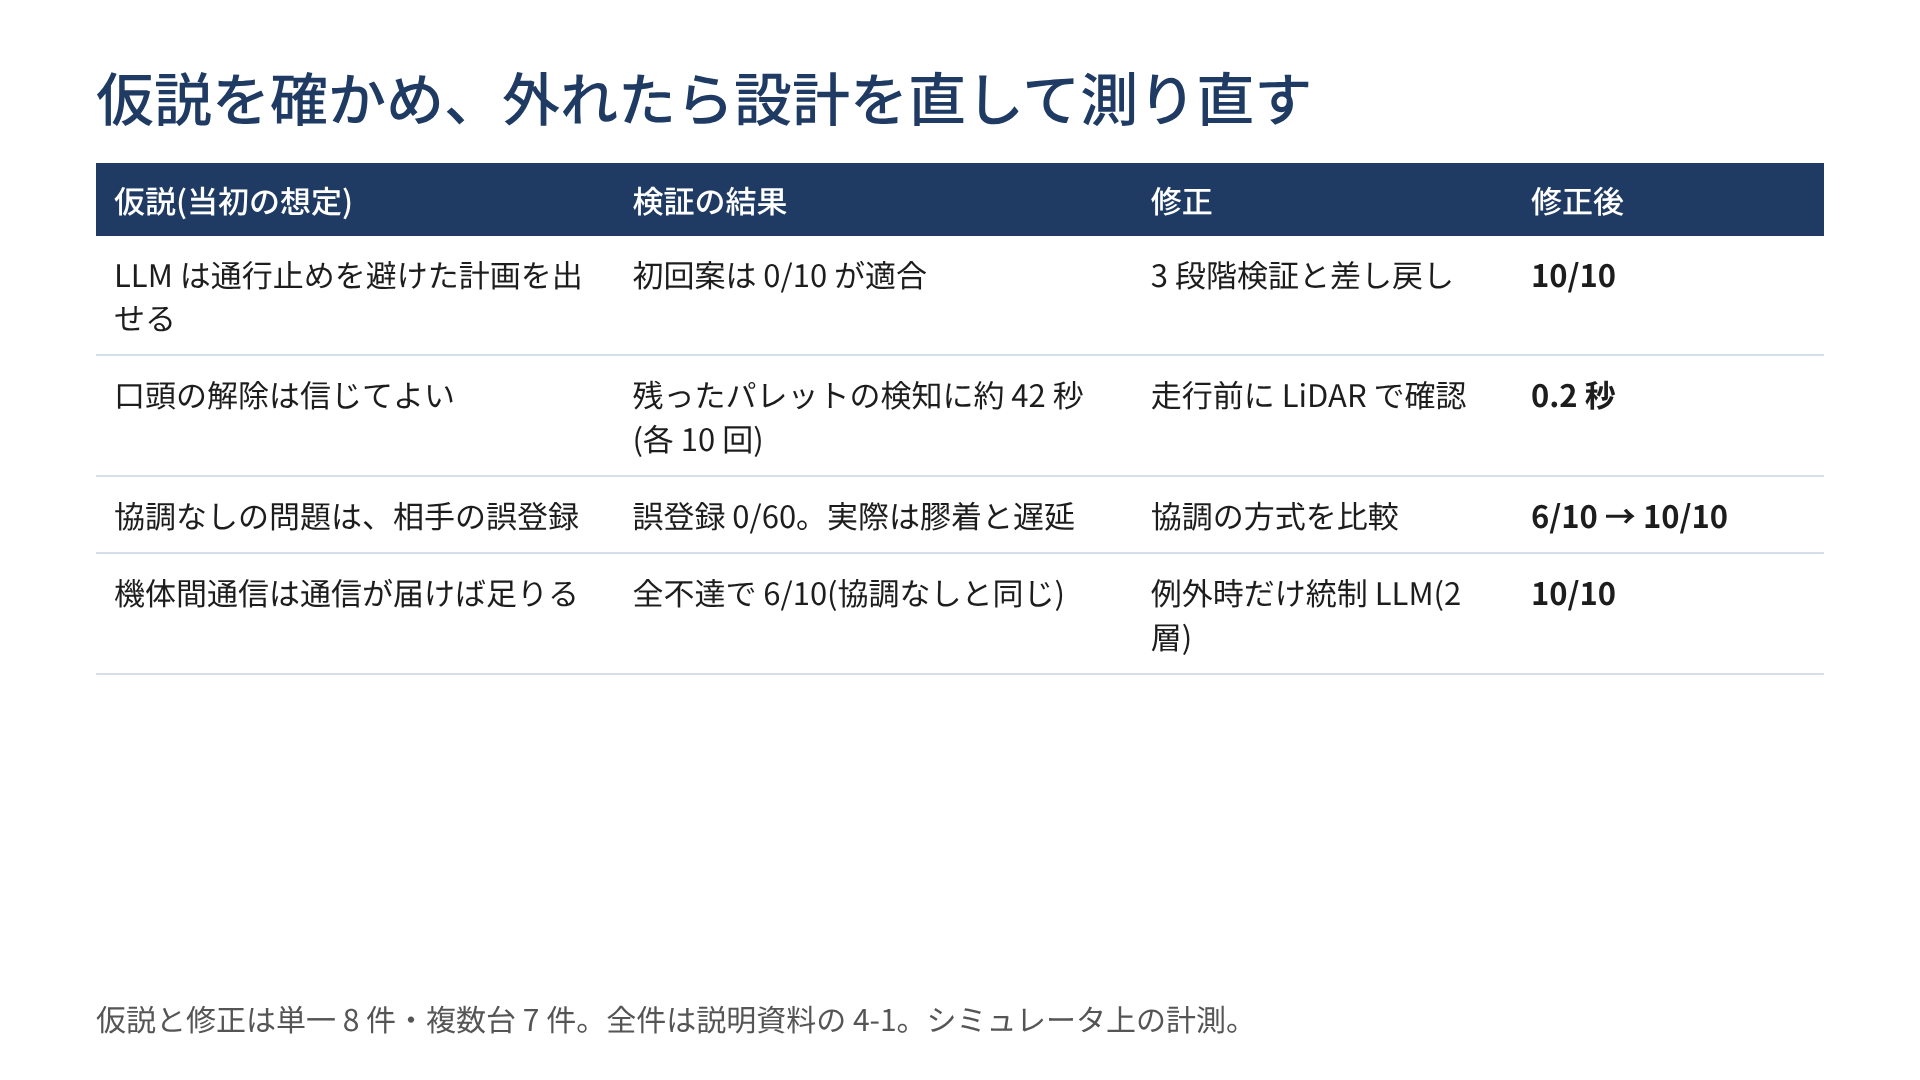
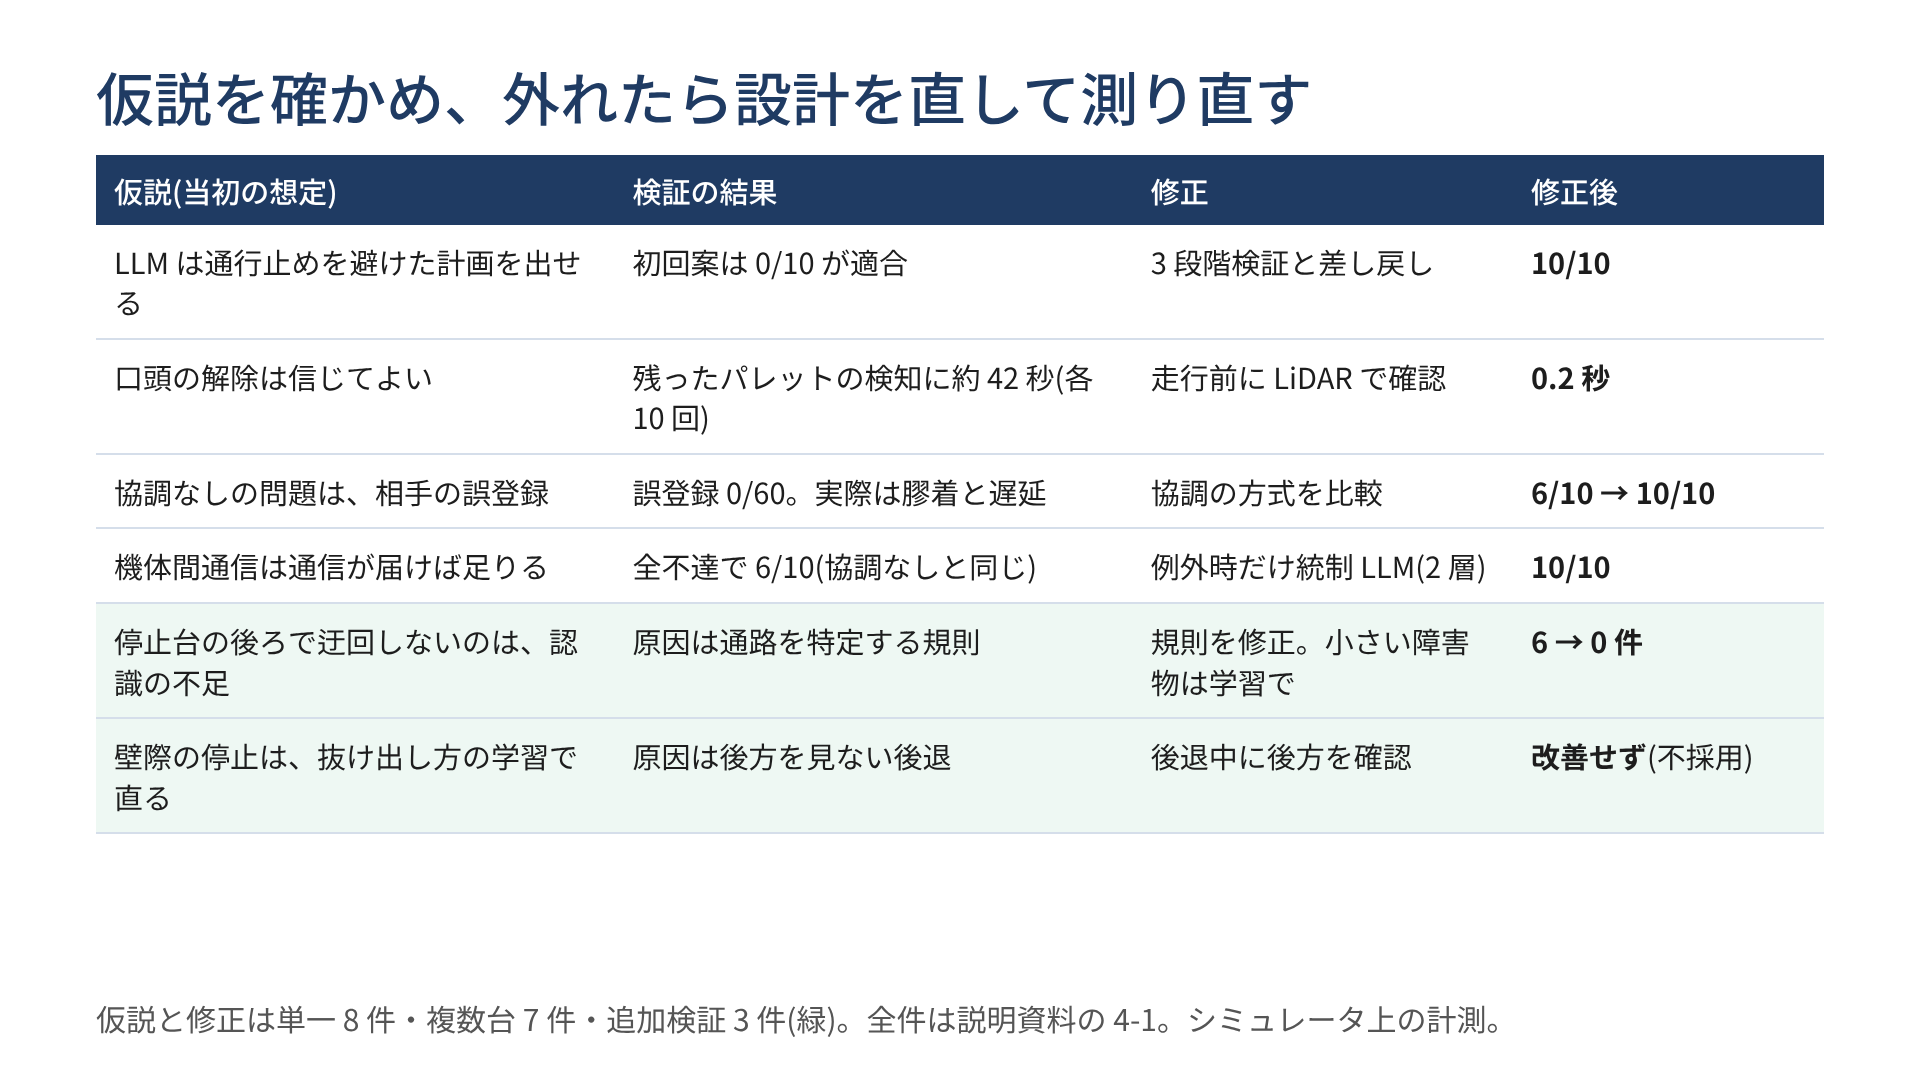
Video part 3: new slides 11-14, updated 01/01b/01c/09/10, telops T8a/T8b, scene 8 procedure, video_reset robotbox
Claude-Session: https://claude.ai/code/session_01XXRvrW4CqHyFHBMq6pLjo3

diff --git a/docs/動画収録手順.md b/docs/動画収録手順.md
@@ -1,6 +1,6 @@
 # 動画の収録手順(場面ごとの操作と、実行するコマンド)
 
-構成は Project の `claude/動画構成案.md`(目安 2:52)。録画は Mac の画面収録(手動)で行う。
+構成は Project の `claude/動画構成案.md` と `claude/動画差し替え案.md`(パート 3 を追加した版、目安 2:58)。録画は Mac の画面収録(手動)で行う。
 **ロボットの操作の扱い:** 場面 2〜6 は、人の入力(指示の文、指差し、ジェスチャー)そのものを見せる場面なので手動で行う。場面 4 のパレット配置と、テイク間のリセットはスクリプトで自動化した。場面 7(2 台)は自動実行の様子を録画する。
 
 ## 0. 端末の用意(録画の前に 1 回)
@@ -244,31 +244,62 @@ bash ~/ros2_ws/run_nav.sh cargo:=true
 
 編集: C0 の膠着した回(テロップ T7a)→ C3 の回(テロップ T7b)を、どちらも 8 倍速で続ける。収録用の `docs/multi/C0_video.csv`・`C3_video.csv` は削除してよい。
 
+### 場面 8(2:23–2:37)残った停止ロボット:規則と学習の比較(パート 3)― 編集で 8 倍速、テロップ T8a → T8b
+走行の検証 P1(説明資料 7-4)と同じ場面。南通路の中心に停止ロボットを模した箱を置き、口頭で誤って「片付いた」と伝える。
+実行部は修正版(plan_executor_v2)で起動し、認識器(recognizer)をテイクごとに切り替える。場面 7 の後なら、先に複数台用のコンテナを止めて単一用を起動する(1-2)。
+
+**準備(1 回):**
+| 順 | 場所 | 操作 |
+|---|---|---|
+| 1 | N1 | `Ctrl+C` → `bash ~/ros2_ws/stop_nav.sh` → `bash ~/ros2_ws/run_nav.sh executor:=plan_executor_v2` |
+| 2 | T2 | `../docker/ros_exec.sh ros2 lifecycle get /bt_navigator`(`active [3]` を確認) |
+| 3 | N2 | `ign gazebo -g`、T2 で `./video_camera.sh top` |
+
+**テイク A(規則、テロップ T8a):**
+| 順 | 場所 | 操作 | 画面に出るもの |
+|---|---|---|---|
+| 1 | T2 | `../docker/ros_exec.sh ros2 param set /plan_executor recognizer rule_offset` | `Set parameter successful` |
+| 2 | T1・T2 | `Ctrl+C` → `./video_reset.sh robotbox` | 南通路の中心に橙の箱 |
+| 3 | T1 | `python llm_commander.py` → `南通路は塞がれている`(録画しなくてよい) | 南通路を通行止めに登録 |
+| 4 | 録画開始 | | |
+| 5 | T1 | `南通路は片付いた。出荷口へ行って` | 南通路へ走り出し、箱の約 0.9 m 手前で `blocked`(事前確認)→ 後退 → 中央通路を通って到着(約 57 秒) |
+| 6 | 録画終了 | | |
+
+**テイク B(学習、テロップ T8b):** 手順 1 を `recognizer learned` にして、2〜6 を同じく行う。
+画面に出るもの: 出発の直後(約 1 秒、入荷口付近)で `blocked`(事前確認)→ 南通路に入らず中央通路を通って到着(約 42 秒)。
+
+編集: テイク A(T8a)→ テイク B(T8b)を続け、どちらも 8 倍速。終わったら `../docker/ros_exec.sh ros2 param set /plan_executor recognizer rule` に戻すか、N1 で `run_nav.sh`(引数なし)から起動し直す。
+
 ## 4. 編集と書き出し(iMovie など)
 
 | 時間 | 場面 | 素材 |
 |---|---|---|
-| 0:00–0:07 | 題名と 2 つの問い | 画像 01 |
-| 0:07–0:13 | 進め方(仮説 → 検証 → 修正の例 4 件) | 画像 01b |
-| 0:13–0:18 | システム構成(単一ロボット) | 画像 01c |
-| 0:18–0:22 | パート 1 表紙(単一ロボット) | 画像 01d |
-| 0:22–0:32 | 通常搬送と到着予測 | 場面 2(8 倍速、テロップ T2) |
-| 0:32–0:51 | 荷物搬送(指差し + 言葉) | 場面 3 |
-| 0:51–1:19 | 迂回 | 画像 02(3 秒)→ 場面 4(8 倍速、テロップ T4) |
-| 1:19–1:33 | 口頭解除と LiDAR 確認 | 場面 5 → 画像 03 |
-| 1:33–1:39 | 非常停止 | 場面 6 |
-| 1:39–1:47 | 問い 1 の答え:効いた要素と機能の実績 | 画像 04 |
-| 1:47–1:51 | パート 2 表紙(複数ロボット) | 画像 04b |
-| 1:51–1:58 | 複数台の構成と協調の方式(C1・C3・C4) | 画像 06 |
-| 1:58–2:21 | 2 台の正面すれ違い | 場面 7(C0 テロップ T7a → C3 テロップ T7b、8 倍速) |
-| 2:21–2:29 | 複数台の結果 | 画像 07 |
-| 2:29–2:37 | 通信の中身と、届かない場合・2 層 | 画像 08 |
-| 2:37–2:46 | 単一で効いた規則が裏目に出た点 | 画像 09 |
-| 2:46–2:58 | まとめ(2 つの問いへの答え、3 台以上への方針) | 画像 10 |
+| 0:00–0:06 | 題名と 3 つの問い | 画像 01 |
+| 0:06–0:12 | 進め方(仮説 → 検証 → 修正の例 6 件) | 画像 01b |
+| 0:12–0:16 | システム構成(単一ロボット) | 画像 01c |
+| 0:16–0:19 | パート 1 表紙(単一ロボット) | 画像 01d |
+| 0:19–0:27 | 通常搬送と到着予測 | 場面 2(8 倍速、テロップ T2) |
+| 0:27–0:40 | 荷物搬送(指差し + 言葉) | 場面 3(19 → 13 秒に短縮) |
+| 0:40–1:02 | 迂回 | 画像 02(3 秒)→ 場面 4(28 → 19 秒に短縮) |
+| 1:02–1:14 | 口頭解除と LiDAR 確認 | 場面 5 → 画像 03 |
+| 1:14–1:19 | 非常停止 | 場面 6 |
+| 1:19–1:26 | 問い 1 の答え:効いた要素と機能の実績 | 画像 04 |
+| 1:26–1:29 | パート 2 表紙(複数ロボット) | 画像 04b |
+| 1:29–1:34 | 複数台の構成と協調の方式 | 画像 06 |
+| 1:34–1:51 | 2 台の正面すれ違い | 場面 7(23 → 17 秒に短縮。T7a → T7b) |
+| 1:51–1:57 | 複数台の結果 | 画像 07 |
+| 1:57–2:02 | 通信の中身と、届かない場合・2 層 | 画像 08 |
+| 2:02–2:09 | 単一で効いた規則が裏目(パート 3 への橋渡し) | 画像 09 |
+| 2:09–2:12 | パート 3 表紙(失敗からの改善) | 画像 11 |
+| 2:12–2:18 | 失敗の原因は規則だった | 画像 12 |
+| 2:18–2:23 | 学習の仕組み | 画像 13 |
+| 2:23–2:37 | 残った停止ロボット:規則 → 学習 | 場面 8(T8a → T8b、8 倍速) |
+| 2:37–2:45 | 認識の結果 | 画像 14 |
+| 2:45–2:58 | まとめ(3 つの問いへの答え) | 画像 10 |
 
 1. 録画した場面は全て 8 倍速にし、左上にテロップ(T2〜T7b)を 1 枚重ねる。テロップの文言の末尾に「(8 倍速)」が入っている(倍速表示の画像は別に重ねない)。
 2. 書き出し: 1080p の MP4、長さ 3:00 以内。
-3. テロップは場面 2→T2、場面 3→T3、場面 4→T4、場面 5→T5、場面 6→T6、場面 7 の C0→T7a・C3→T7b(`docs/video_assets/`、透過 PNG)。
+3. テロップは場面 2→T2、場面 3→T3、場面 4→T4、場面 5→T5、場面 6→T6、場面 7 の C0→T7a・C3→T7b、場面 8 の規則→T8a・学習→T8b(`docs/video_assets/`、透過 PNG)。
 4. 画像 01c は説明資料 2-1 の図 2、01d・04b は各パートの表紙。目安 2:58 で余裕が少ない。超える場合は場面 3(荷物搬送)と画像 01b・08 を短くする。
 5. 確認: 顔・氏名・メール・ユーザー名・個人のフォルダ名が映っていない。全ての録画場面に「(8 倍速)」のテロップがある。
 6. 画像は `docs/video_assets/`(1920×1080)。報告書と同じ図・数字から作った(生成スクリプトは報告書の作成環境にあり、リポジトリには含めない)。
